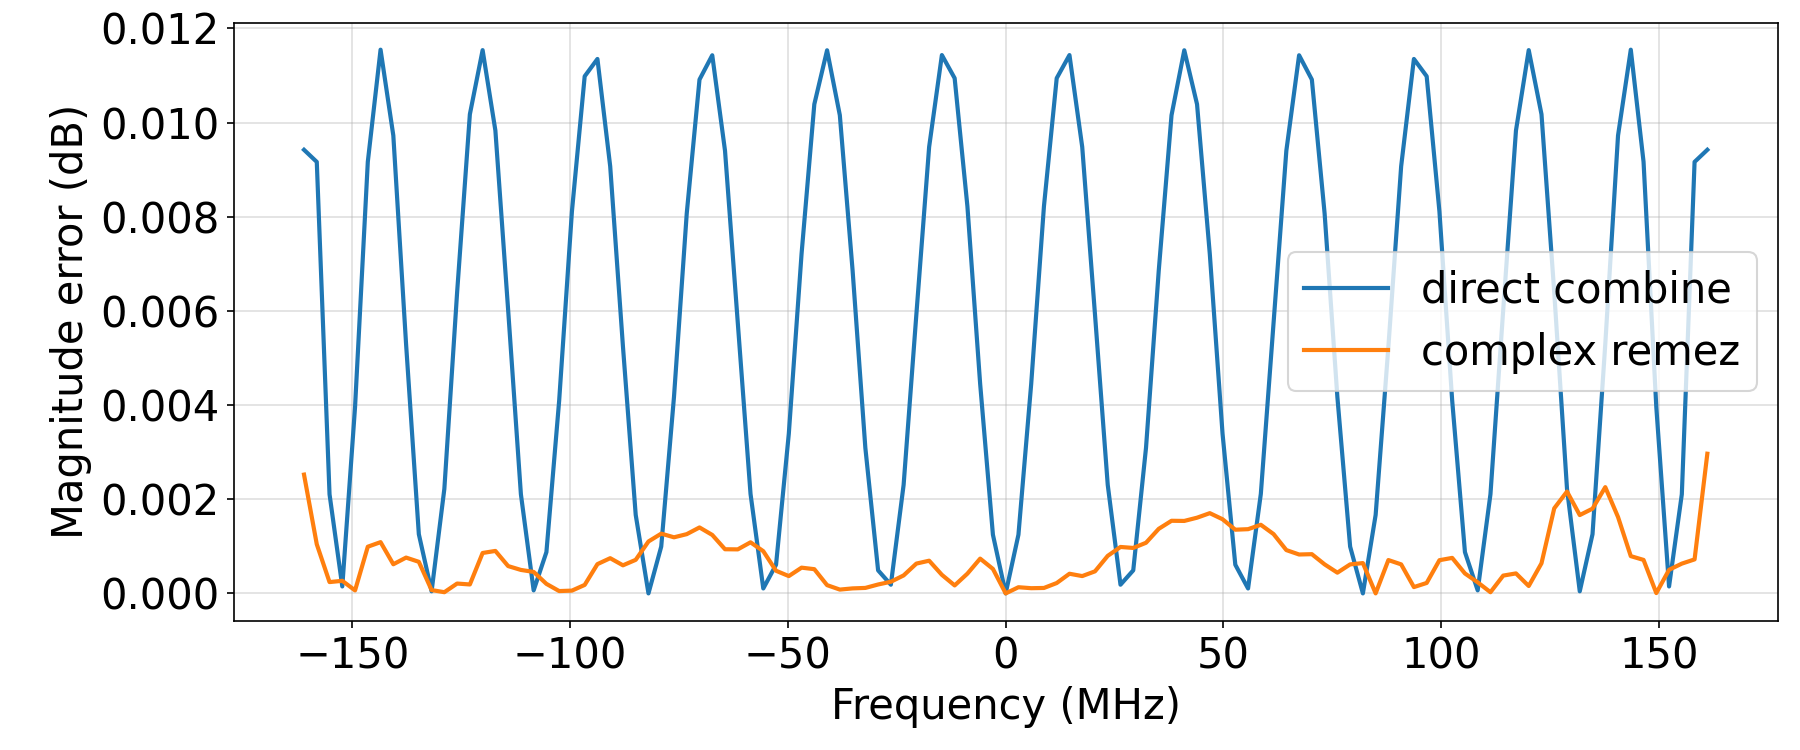
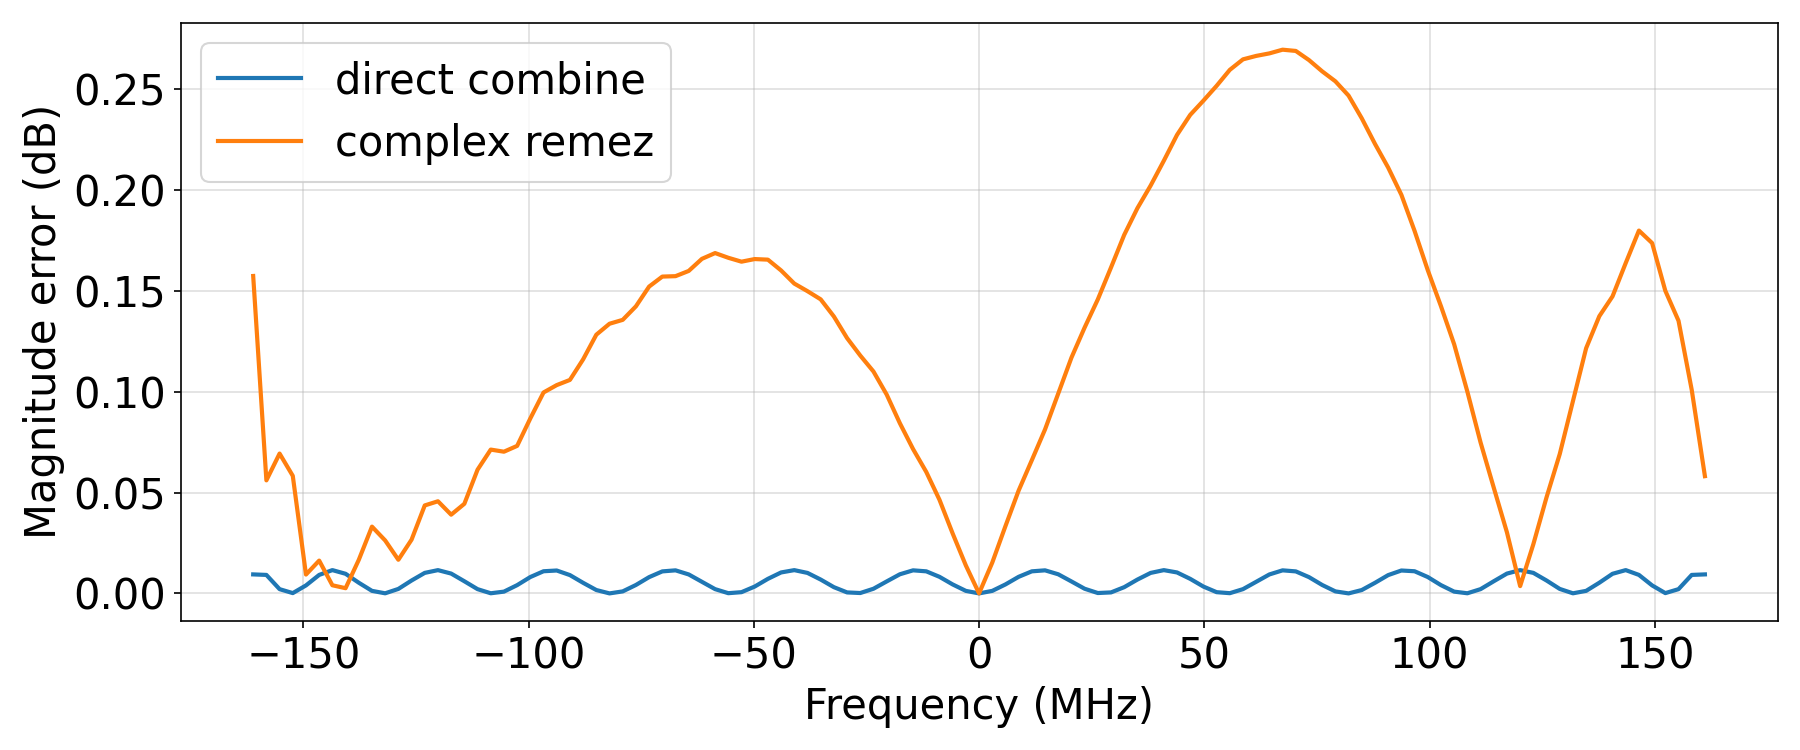
Add result of cosine TB constraint

diff --git a/gen_rx_filter/run_eqz_lowpass_remez.py b/gen_rx_filter/run_eqz_lowpass_remez.py
@@ -152,6 +152,12 @@ def design_complex_fir_remez(
     Hd_all = np.concatenate(Hd_parts)  # (K,)
     K = len(all_freqs)
 
+    # If a transition-band magnitude ramp was provided, store it so we can
+    # do a phase-adaptive update each iteration: desired = |ramp| * exp(j*phase(H)).
+    # This makes the error purely a magnitude error, avoiding the phase-mismatch
+    # blowup that occurs when a real-valued ramp is used as a complex desired.
+    Hd_tb_mag = np.abs(Hd_all[K_pb + K_sb :]).copy() if (K_tb > 0 and Hd_transition is not None) else None
+
     # Fixed band weights B_k ─ encode relative tolerance between bands
     B = np.ones(K)
     B[K_pb : K_pb + K_sb] = sb_weight
@@ -193,6 +199,12 @@ def design_complex_fir_remez(
         Hdw = W_sqrt * Hd_all  # (K,)    pre-weighted desired
 
         h, _, _, _ = scipy_lstsq(Aw, Hdw)
+
+        # Phase-adaptive transition: align desired phase to current filter so
+        # the error reduces to a pure magnitude error |H(ω)| − ramp(ω)|.
+        if Hd_tb_mag is not None:
+            H_tb = A[K_pb + K_sb :] @ h
+            Hd_all[K_pb + K_sb :] = Hd_tb_mag * np.exp(1j * np.angle(H_tb + 1e-12))
 
         # ------------------------------------------------------------------ #
         # Error diagnostics                                                   #
@@ -366,28 +378,21 @@ def design_eqz_lowpass_remez(
     # ------------------------------------------------------------------ #
     Hd_pb = interp_fft_response(eqz_resp, fs=fs_mhz, target_freqs_rad=pb_freqs)
 
-    # Transition-band desired response: linear drop on dB scale from the
-    # passband-edge level down to delta_p at the stopband edge.
-    # Using delta_p (not delta_s) keeps the ramp always downward regardless of
-    # how large delta_s is (delta_s controls stopband weight, not ramp shape).
-    tb_db_start = 20 * np.log10(float(np.max(np.abs(Hd_pb))) + 1e-12)
-    tb_db_end = 20 * np.log10(delta_p + 1e-12)
+    # Transition-band desired magnitude: cosine taper from passband edge level
+    # down to delta_s at the stopband edge.  Zero slope at both endpoints means
+    # the ramp exerts no lateral pull on the passband or stopband constraints,
+    # giving lower in-band error than a dB-linear or linear-amplitude ramp.
+    mag_start = float(np.max(np.abs(Hd_pb)))  # ≈ 1.0 after DC normalisation
     t = np.linspace(0.0, 1.0, n_grid // 2)
-    tb_db_pos = tb_db_start + (tb_db_end - tb_db_start) * t  # passband → stopband
-    tb_db_neg = tb_db_pos[::-1]  # stopband → passband
-    tb_desired = np.concatenate(
-        [
-            10 ** (tb_db_neg / 20),
-            10 ** (tb_db_pos / 20),
-        ]
-    )
+    tb_pos = mag_start + (delta_s - mag_start) * 0.5 * (1 - np.cos(np.pi * t))
+    tb_desired = np.concatenate([tb_pos[::-1], tb_pos])
 
     # ------------------------------------------------------------------ #
     # Step 4: run complex Remez (Lawson IRLS)                            #
     # ------------------------------------------------------------------ #
     # sb_weight = delta_p/delta_s encodes the relative tolerance so that at
     # convergence: peak_pb_error ≈ delta_p and peak_sb_level ≈ delta_s.
-    sb_weight = delta_p / delta_s / 100 # to do
+    sb_weight = delta_p / delta_s
 
     print(f"Designing {N}-tap complex lowpass FIR  [complex Remez / Lawson IRLS]")
     print(f"  fs          = {fs_mhz} MHz")
@@ -400,15 +405,10 @@ def design_eqz_lowpass_remez(
     print(f"  delta_p     = {delta_p}  (passband),  delta_s = {delta_s}  (stopband)")
     print(f"  sb_weight   = delta_p/delta_s = {sb_weight:.4f}")
     print(
-        f"  transition  = dB-linear ramp  [{tb_db_start:.2f} dB → {tb_db_end:.2f} dB (delta_p)]  "
+        f"  transition  = cosine taper  [{20*np.log10(mag_start+1e-12):.2f} dB → {20*np.log10(delta_s+1e-12):.2f} dB]  "
         f"({len(tb_freqs)} pts)"
     )
     print(f"  max_iter    = {n_iter}")
-
-    _tb_freqs = None  # set to tb_freqs to include transition band in solver
-    _Hd_transition = None  # set to tb_desired to use ramp desired response
-    # _tb_freqs = tb_freqs        
-    # _Hd_transition = tb_desired   
 
     h = design_complex_fir_remez(
         N=N,
@@ -416,9 +416,9 @@ def design_eqz_lowpass_remez(
         stopband_freqs=sb_freqs,
         Hd_passband=Hd_pb,
         sb_weight=sb_weight,
-        transition_freqs=_tb_freqs,
-        Hd_transition=_Hd_transition,
-        tb_weight=0.01,
+        transition_freqs=tb_freqs,
+        Hd_transition=tb_desired,
+        tb_weight=0.05,
         n_iter=n_iter,
         verbose=verbose,
     )
@@ -426,21 +426,9 @@ def design_eqz_lowpass_remez(
     # ------------------------------------------------------------------ #
     # Step 5: report achieved performance                                 #
     # ------------------------------------------------------------------ #
-    H_pb = evaluate_response(h, pb_freqs)
     H_sb = evaluate_response(h, sb_freqs)
-    err_pb = H_pb - Hd_pb
-    pb_err_pk = float(np.max(np.abs(err_pb)))
-    pb_err_rm = float(np.sqrt(np.mean(np.abs(err_pb) ** 2)))
     sb_pk = float(np.max(np.abs(H_sb)))
-    print(
-        f"\n  In-band peak  |H − Hd| : {pb_err_pk:.5f}  ({20 * np.log10(pb_err_pk + 1e-12):.1f} dB)"
-    )
-    print(
-        f"  In-band RMS   |H − Hd| : {pb_err_rm:.5f}  ({20 * np.log10(pb_err_rm + 1e-12):.1f} dB)"
-    )
-    print(
-        f"  Stopband peak |H|      : {sb_pk:.5f}  ({20 * np.log10(sb_pk + 1e-12):.1f} dB)"
-    )
+    print(f"\n  Stopband peak |H| : {sb_pk:.5f}  ({20 * np.log10(sb_pk + 1e-12):.1f} dB)")
 
     # ------------------------------------------------------------------ #
     # Step 6: save and plot                                               #
@@ -452,16 +440,12 @@ def design_eqz_lowpass_remez(
     H_eqz = H_eqz / H_eqz[dc_idx]
     H_combined = H_combined / H_combined[dc_idx]
 
-    # Build desired-response arrays for plotting: include transition band when provided
-    if _Hd_transition is not None and _tb_freqs is not None:
-        _all_Hd_freqs = np.concatenate([pb_freqs, _tb_freqs])
-        _all_Hd = np.concatenate([Hd_pb, _Hd_transition.astype(complex)])
-        _sort = np.argsort(_all_Hd_freqs)
-        Hd_freqs_plot = _all_Hd_freqs[_sort]
-        Hd_plot = _all_Hd[_sort]
-    else:
-        Hd_freqs_plot = pb_freqs
-        Hd_plot = Hd_pb
+    # Build desired-response arrays for plotting: passband + transition band ramp
+    _all_Hd_freqs = np.concatenate([pb_freqs, tb_freqs])
+    _all_Hd = np.concatenate([Hd_pb, tb_desired.astype(complex)])
+    _sort = np.argsort(_all_Hd_freqs)
+    Hd_freqs_plot = _all_Hd_freqs[_sort]
+    Hd_plot = _all_Hd[_sort]
 
     save_coefficients(h, out_dir=out_dir, name="eqz_lowpass_remez")
     plot_response(
@@ -492,6 +476,13 @@ def design_eqz_lowpass_remez(
 
     def _err_db(H):
         return np.abs(20 * np.log10(np.abs(H[pb_mask]) + 1e-12) - ref_db)
+
+    rmz_err = _err_db(H_rmz_hc)
+    print(
+        f"  In-band dB magnitude error  peak : {rmz_err.max():.3f} dB"
+        f"  (at {freq_pb[np.argmax(rmz_err)]:.1f} MHz)"
+    )
+    print(f"  In-band dB magnitude error  RMS  : {rmz_err.mean():.3f} dB")
 
     FSIZE = 20
     curves = [
@@ -576,7 +567,7 @@ def _build_parser() -> argparse.ArgumentParser:
     p.add_argument(
         "--delta-s",
         type=float,
-        default=10,  # 0.1
+        default=0.1,
         help="Stopband attenuation tolerance",
     )
     p.add_argument("--n-iter", type=int, default=150, help="Maximum Lawson iterations")

diff --git a/gen_rx_filter/document/params_remez.tex b/gen_rx_filter/document/params_remez.tex
@@ -7,6 +7,6 @@
   Stopband edge $f_{stop}$ & $\pm250.0$\,MHz \\
   Filter taps $N$ & 63 \\
   Passband tolerance $\delta_p$ & 0.05 \\
-  Stopband tolerance $\delta_s$ & 10 \\
+  Stopband tolerance $\delta_s$ & 0.1 \\
   \bottomrule
 \end{tabular}